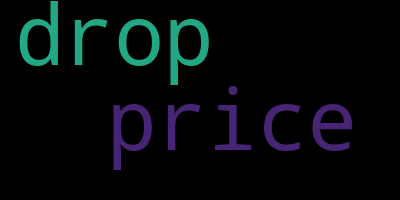
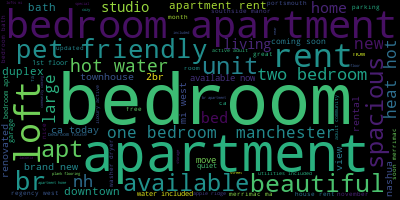
fixed word cloud

diff --git a/wc.py b/wc.py
@@ -7,7 +7,10 @@ from wordcloud import WordCloud, STOPWORDS, ImageColorGenerator
 
 df = pd.read_csv("halfclean(5).csv", encoding="ISO-8859-1")
 
-ad= df.Title[0]
+ad= df.Title.str.cat(sep=",")
+
+
+#print(df["Title"].head(10))
 
 wordcloud = WordCloud().generate(ad)
 
